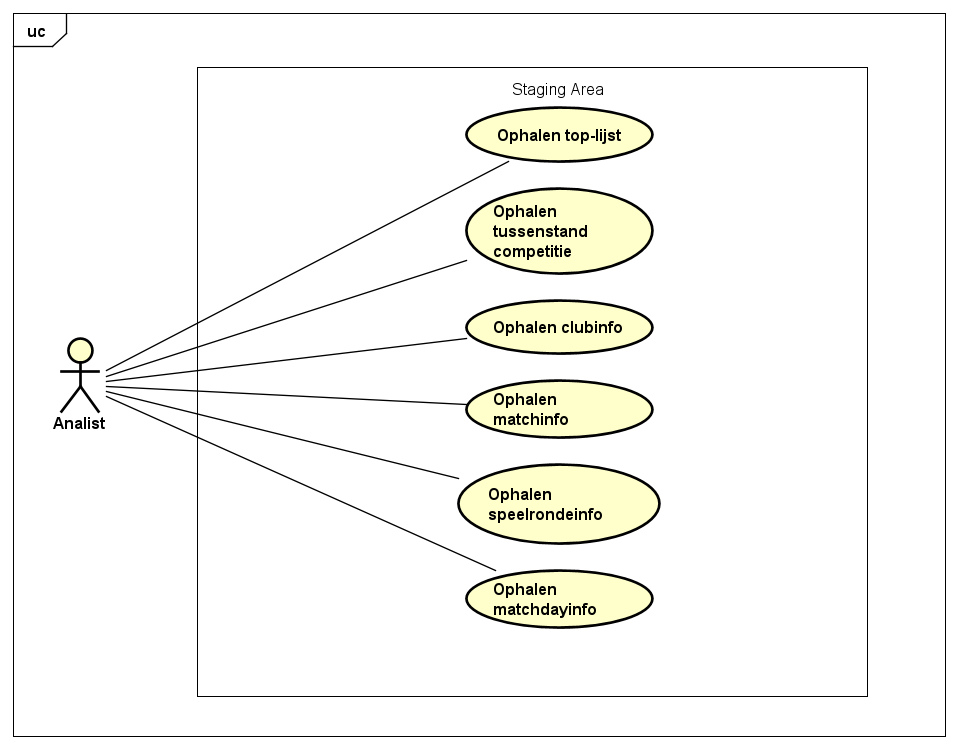
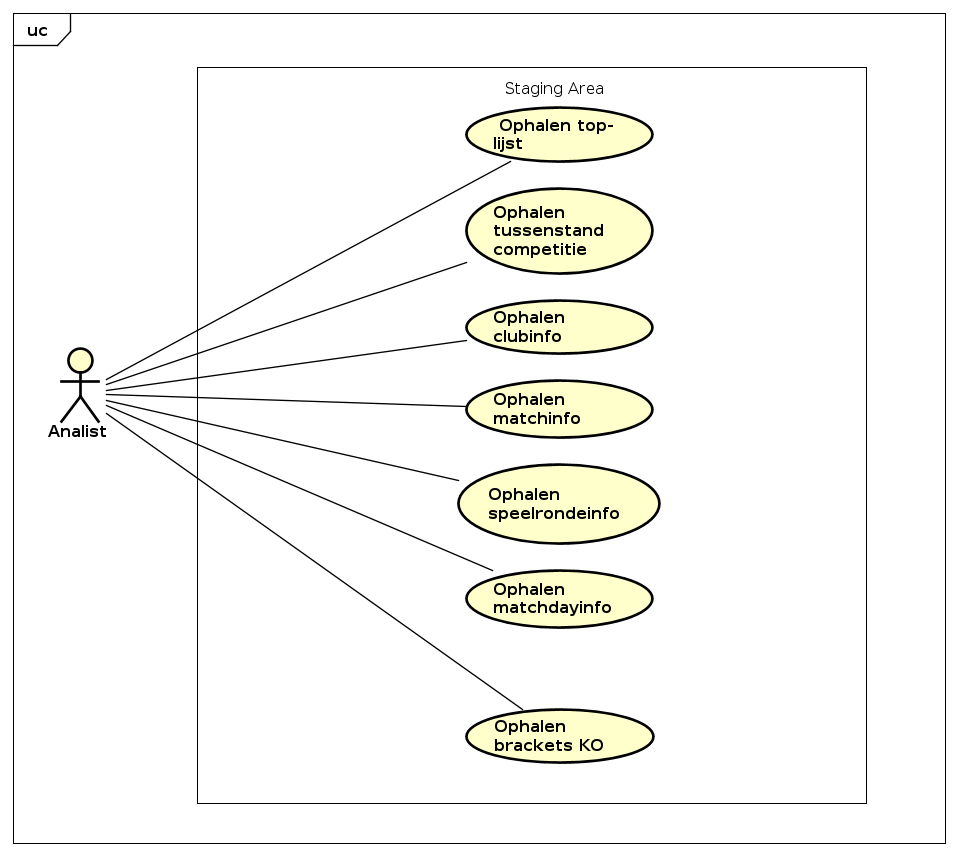
Add use-cases for Knock Out tournaments

diff --git a/docs/functioneel_ontwerp.md b/docs/functioneel_ontwerp.md
@@ -3,7 +3,21 @@
 # Functioneel ontwerp
 
 - [Use cases](#use-cases)
+  - [Database](#database)
+  - [Staging Area](#staging-area)
 - [Fully-Dressed Use-cases](#fully-dressed-use-cases)
+  - [Ophalen top-lijst](#ophalen-top-lijst)
+  - [Ophalen tussenstand competitie](#ophalen-tussenstand-competitie)
+  - [Ophalen clubinfo](#ophalen-clubinfo)
+  - [Ophalen matchinfo](#ophalen-matchinfo)
+  - [Ophalen matchdayinfo](#ophalen-matchdayinfo)
+  - [Ophalen speelrondeinfo](#ophalen-speelrondeinfo)
+  - [Invoeren matchdata](#invoeren-matchdata)
+  - [Updaten clubinfo](#updaten-clubinfo)
+  - [Start nieuw seizoen nationale competitie](#start-nieuw-seizoen-nationale-competitie)
+  - [Toevoegen nieuwe persoon](#toevoegen-nieuwe-persoon)
+  - [Overzetten data](#overzetten-data)
+  - [Toevoegen event type](#toevoegen-event-type)
 - [Verwoordingen feittypen](#verwoordingen-feittypen)
   - [Competitie](#competitie)
   - [Seizoen](#seizoen)
@@ -14,7 +28,7 @@
   - [Stadion](#stadion)
   - [Personen](#personen)
     - [Persoon achternaam](#persoon-achternaam)
-    - [Persoon middelnaam](#persoon-middelnaam)
+    - [Persoon tussenvoegsel](#persoon-tussenvoegsel)
     - [Geboortedatum](#geboortedatum)
     - [Nationaliteit](#nationaliteit)
   - [Coach](#coach)
@@ -106,11 +120,16 @@
 # Use cases
 
 ## Database
+
 ![Use case diagram](images/usecase_diagram_nutmeg.png)
 
 ## Staging Area
+
 ![Use case diagram](images/UseCase_Staging_Area_Nutmeg.png)
+
 # Fully-Dressed Use-cases
+
+## Ophalen top-lijst
 
 |Naam               |Ophalen top-lijst|
 |-------------------|------------------------------|
@@ -120,6 +139,8 @@
 |Postconditie       |Systeem toont de gewenste top-lijst|
 |Brief Description  |Actor haalt een top-lijst met gewenste informatiebehoefte op uit het systeem|
 |Happy Flow         |1.Actor geeft aan een toplijst van event gele kaart op te halen <br> 2.Systeem toont de top-lijst van gele kaarten|
+
+## Ophalen tussenstand competitie
 
 |Naam               |Ophalen tussenstand competitie|
 |-------------------|-----------------------------|
@@ -131,6 +152,8 @@
 |Happy Flow         |1.Actor geeft aan de tussenstand van een competitie op te willen halen. <br> 2.Systeem toont de tussenstand.|
 |Alternatieve Flow  |1A.Actor geeft aan een niet bestaande seizoen en competitie te hebben geselecteerd<br>2A. Systeem toont een lege lijst.|
 
+## Ophalen clubinfo
+
 |Naam               |Ophalen clubinfo|
 |-------------------|-------------------------------|
 |Actors             |Data-analist Klant / NUTMEG Voetbal Admin|
@@ -139,6 +162,8 @@
 |Postconditie       |Systeem toont de informatie Club naam, Stadium naam, land naam, stad naam en de caoch van de gewenste club.|
 |Brief Description  |Actor haalt het team, de coach, de thuisstad, het stadion en de capaciteit van het stadion van een gewenste club op.|
 |Happy Flow         |1.Actor geeft aan informatie over een gewenste club te willen zien <br> 2.Systeem toont clubinformatie over de gewenste club.|
+
+## Ophalen matchinfo
 
 |Naam               |Ophalen matchinfo									|
 |-------------------|---------------------------------------------------|
@@ -150,6 +175,8 @@
 |Happy Flow         |1.Actor geeft aan informatie over een gewenste match te willen zien<br> 2.Systeem toont de informatie goals, hoekschop, overtreding, passes, gele kaart ,rode kaart, schoten en vervanging van de gewenste match.|
 |Alternatieve Flow  |2A.Systeem geeft aan dat de match niet bestaat.|
 
+## Ophalen matchdayinfo
+
 |Naam               |Ophalen matchdayinfo									|
 |-------------------|---------------------------------------------------|
 |Actors             |Data-analist Klant / NUTMEG Voetbal Admin|
@@ -157,8 +184,10 @@
 |Preconditie        ||
 |Postconditie       |Systeem toont de informatie van de gewenste matchday.|
 |Brief Description  |Actor haalt per dag wie gespeeld heeft op de dag en wat de standen zijn tussen de clubs|
-|Happy Flow         |1.Actor geeft aan informatie over de gewenste dag te willen zien<br>2.| Systeem toont de informatie wedstrijden, goals per wedstrijd per club en de duur van de wedstrijden.
+|Happy Flow         |1.Actor geeft aan informatie over de gewenste dag te willen zien<br>2. Systeem toont de informatie wedstrijden, goals per wedstrijd per club en de duur van de wedstrijden. |
 |Alternatieve Flow  |2A.Systeem geeft aan dat de matchday niet bestaat.|
+
+## Ophalen speelrondeinfo
 
 |Naam               |Ophalen speelrondeinfo	|
 |-------------------|-------------------------------------|
@@ -168,6 +197,8 @@
 |Postconditie       |Systeem toont de informatie van de gewenste speelronde.|
 |Brief Description  |Actor haalt de uitslagen en speeldagen van wedstrijden tijdens een gewenste speelronde op.|
 |Happy Flow         |1.Actor geeft aan de uitslagen en speeldagen van wedstrijden tijdens een gewenste speelronde te willen zien. <br> 2.Systeem toont van de seizoen, competitie alle start datum, club out en club thuis en de aantal goals die gemaakt zijn door de spelende clubs.|
+
+## Invoeren matchdata
 
 
 |Naam               |Invoeren matchdata	|
@@ -180,6 +211,8 @@
 |Happy Flow         |1.Actor geeft aan de matchdata: goal, hoekschop, overtreding, passes, gele kaart, rode kaart, schoten en wie met wie is vervangen op te willen slaan in de database<br> 2.Systeem slaat de match data op in de database.|
 |Alternatieve Flow  |2A.Systeem geeft aan dat de ingevoerde waarde van balbezit/passprecisie niet tussen 0-100 is. <br> 3A.Ga terug naar stap 1 <br> - <br> 2B.Systeem geeft aan dat speler gekoppeld aan een event/pass/corner/overtreding/schot(op doel) niet in het is correcte team zit. <br> 3B.Ga terug naar stap 1 <br> - <br> 2C.Systeem geeft aan dat speler niet opgesteld is tijdens de wedstrijd. <br> 3C.Ga terug naar stap 1.|
 
+## Updaten clubinfo
+
 |Naam               |Updaten clubinfo	|
 |-------------------|-------------------------------------------------------------------------------|
 |Actors             |NUTMEG Voetbal Admin|
@@ -190,7 +223,9 @@
 |Happy Flow         |1.Actor geeft aan de informatie van club geüpdatet moet worden en geeft aan nieuwe informatie, team, coach, thuisstad, stadion en stdioncapaciteit in te willen voeren. 2.Systeem update de informatie.|
 |Alternative FLow	|2A.Systeem geeft aan dat een speler/coach die moet worden toegevoegd nog bij een ander team ingeschreven staat. <br>3A. Ga terug naar stap 1.|
 
-|Naam               |Start nieuw seizoen competitie	|
+## Start nieuw seizoen nationale competitie
+
+|Naam               |Start nieuw seizoen nationale competitie	|
 |-------------------|-------------------------------------------------------------------------------|
 |Actors             |NUTMEG Voetbal Admin|
 |Stakeholder        |Data-analist Klant|
@@ -199,6 +234,8 @@
 |Brief Description  |Actor update de correcte clubs in de nieuwe editie, start vervolgens een leeg seizoen (lege matches, speeldrondes en een nieuwe editie).|
 |Happy Flow         |1. Actor geeft aan welke clubs gedegradeerd/gepromoveert worden <br> 2. Systeem verwerkt de gegevens <br> 3. Actor geeft aan een nieuwe seizoen comeptitie te starten met de gegevens startdatum, speelrondes, aantal rondes per dag en de clubs die mee doen aan de competitie <br> 4.Systeem maakt nieuwe editie met de gegevens, competitie naam, season naam, lijst met clubs, start datum, lengte van een ronde, games per dag en aantal matches per ronde|
 |Alternative Flow	| 1A. Actor geeft aan een nieuwe seizoen comeptitie te starten met de verkeerde gegevens startdatum, speelrondes, aantal rondes per dag en de clubs die mee doen aan de competitie <br> 2A. Systeem geeft een error bericht.|
+
+## Toevoegen nieuwe persoon
 
 |Naam               |Toevoegen nieuwe persoon	|
 |-------------------|-----------------------|
@@ -210,6 +247,8 @@
 |Happy Flow         |1.Actor geeft aan een nieuwe coach op te willen slaan in het systeem en geeft aan land, voornaam, achternaam, middelnaam en geboorte datum in te voeren. <br>2.Nieuw persoon wordt opgeslagen in de database.|
 |Alternative Flow	|2A.Systeem geeft aan dat informatie onvolledig is  <br> 3A.Ga terug naar stap 1|
 
+## Overzetten data
+
 |Naam               |Overzetten data	|
 |-------------------|-----------------------|
 |Actors             |Time|
@@ -218,6 +257,8 @@
 |Postconditie       |De gegevens vanuit de ene database zijn overgezet naar de andere database.|
 |Brief Description  |Het overzetten van data gebeurt periodiek en vind elke nacht plaats om 2 uur.|
 |Happy Flow         |1. Actor geeft aan dat het tijd is om de data over te zetten. <br>2. Systeem zet data om van de ene database naar de andere database.|
+
+## Toevoegen event type
 
 |Naam               |Toevoegen event type	|
 |-------------------|-----------------------|
@@ -1030,7 +1071,7 @@ Predicaat: Tijdens de voetbalwedstrijd op \<Match_day\> tussen thuis team \<Club
 | Als \[admin\] wil ik een schot op doel in minuut 87 door Antony als matchdata invoeren voor de wedstrijd Ajax - Feyenoord        | M      | Invoeren matchdata             |
 | Als \[admin\] wil ik speler Lionel Messi toewijzen aan de club Ajax                                                              | M      | Updaten clubinfo               |
 | Als \[admin\] wil ik coach Josep Guardiola toewijzen aan de club Ajax                                                            | M      | Updaten clubinfo               |
-| Als \[admin\] wil ik een nieuwe seizoen voor de Eredivise starten                                                                | M      | Start nieuw seizoen competitie |
+| Als \[admin\] wil ik een nieuwe seizoen voor de Eredivise starten                                                                | M      | Start nieuw seizoen nationale competitie |
 | Als \[admin\] wil ik een nieuwe speler met de naam Chris toevoegen                                                               | M      | Toevoegen nieuw persoon        |
 | Als \[admin\] wil ik een nieuwe coach met de naam Michel toevoegen                                                               | M      | Toevoegen nieuw persoon        |
 | Als \[admin\] wil ik een nieuwe scheidsrechter met de naam Henk toevoegen                                                        | M      | Toevoegen nieuw persoon        |
